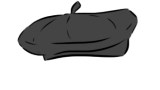
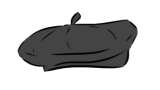
html

diff --git a/style.css b/style.css
@@ -17,7 +17,7 @@
 }
 #head {
     margin-left: 410px;
-    margin-top: 117px;
+    margin-top: 119px;
     width: 130px;
     height: 70px;
 }
